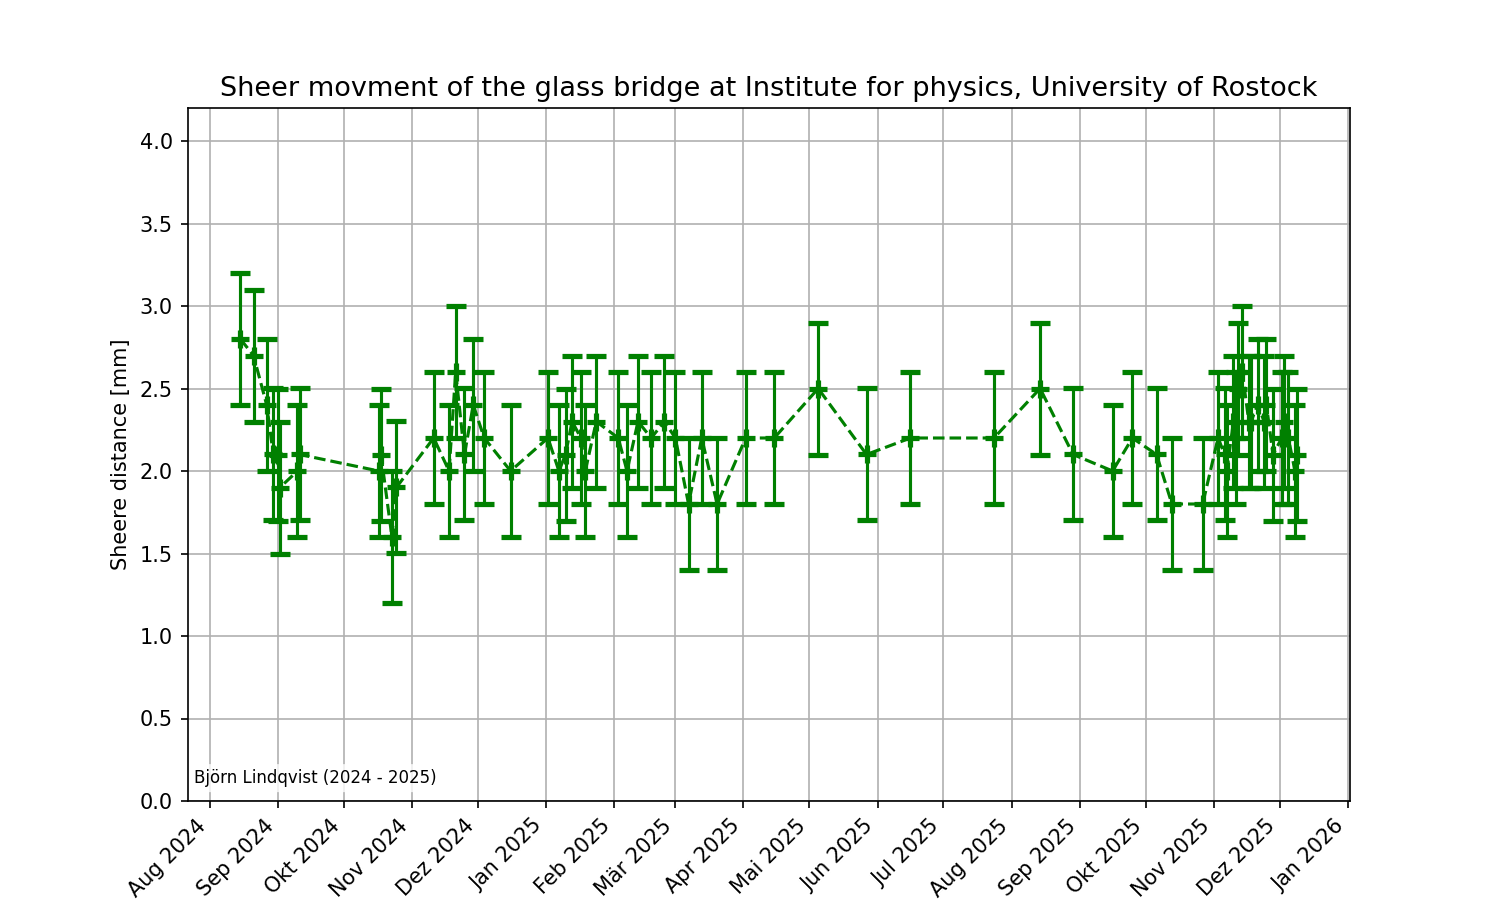
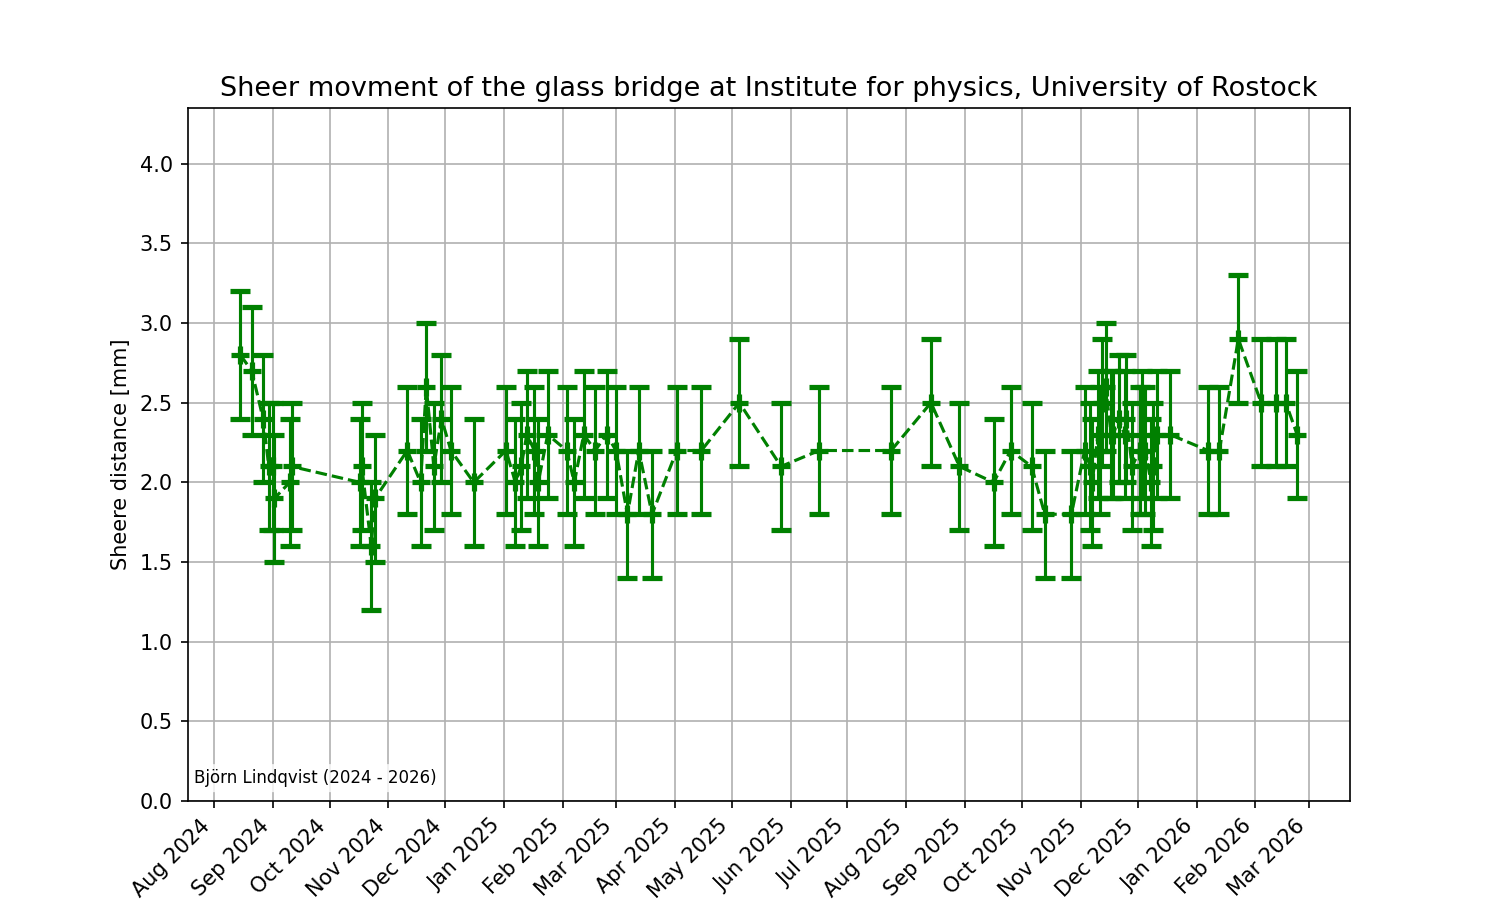
correction code inkl. fit and plot function geschrieben

diff --git a/Glasbruecke_Spalt_Main/correction_functions.py b/Glasbruecke_Spalt_Main/correction_functions.py
@@ -1,0 +1,44 @@
+import numpy as np
+import matplotlib.pyplot as plt
+from scipy import stats
+
+def linear_fit(x, y, x_fit):
+    x = np.asarray(x)
+    y = np.asarray(y)
+
+    slope, intercept, r_value, p_value, std_err = stats.linregress(x, y)
+
+    return {
+        "x_fit": x_fit,
+        "y_fit": slope * x_fit + intercept,
+        "slope": slope,
+        "intercept": intercept,
+        "r_value": r_value,
+        "r_squared": r_value**2,
+        "p_value": p_value,
+        "std_err": std_err
+    }
+
+def plot_correction(df, fit1, fit2, x_ref):
+    plt.figure()
+    plt.grid(True)
+    plt.scatter(df['T1_old'], df['T1_new'], marker='s', label='Data T1')
+    plt.plot(
+        fit1["x_fit"],
+        fit1["y_fit"],
+        label=f'Fit T1: f(x)={fit1["slope"]:.2f}x+{fit1["intercept"]:.2f}'
+    )
+    plt.scatter(df['T2_old'], df['T2_new'], label='Data T2')
+    plt.plot(
+        fit2["x_fit"],
+        fit2["y_fit"],
+        label=f'Fit T2: f(x)={fit2["slope"]:.2f}x+{fit2["intercept"]:.2f}'
+    )
+    plt.plot(x_ref, x_ref, linestyle='--', color='black', linewidth=1, label='ideal behavior: f(x)=x')
+    plt.xlim([10, 22])
+    plt.xlabel('Old temperature [°C]')
+    plt.xlabel('Corrected temperature [°C]')
+    plt.title('Correction fit for FLIR/temperature measurement')
+    plt.legend()
+    plt.show()
+    return None

diff --git a/Glasbruecke_Spalt_Main/Korrekturanalyse.py b/Glasbruecke_Spalt_Main/Korrekturanalyse.py
@@ -1,0 +1,24 @@
+"""
+Korrekturterm
+Version: Vortlaufende Daten
+Autor: Björn Lindqvist
+Lizenz: CC-BY
+"""
+
+import pandas as pd
+import numpy as np
+import correction_functions as corr_fun
+
+
+file_path = 'Glasbruecke_data.xlsx'
+df = pd.read_excel(file_path, 'Tabelle2')
+
+T_fit = np.linspace(10, 25, 1000)
+
+fit_T1 = corr_fun.linear_fit(df['T1_old'], df['T1_new'], T_fit)
+fit_T2 = corr_fun.linear_fit(df['T2_old'], df['T2_new'], T_fit)
+
+corr_fun.plot_correction(df, fit_T1, fit_T2, T_fit)
+
+print('Exitcode 0')
+

diff --git a/Glasbruecke_Spalt_Main/Glasbruecke_main_code.py b/Glasbruecke_Spalt_Main/Glasbruecke_main_code.py
@@ -23,7 +23,7 @@ delta_D = df['dD_i/mm'].to_numpy()
 
 
 year_start = '2024' #only text
-year_end = '2025' #only text
+year_end = '2026' #only text
 time_style = 'time' #time (#days) or Date (date)
 
 if time_style == 'days':
